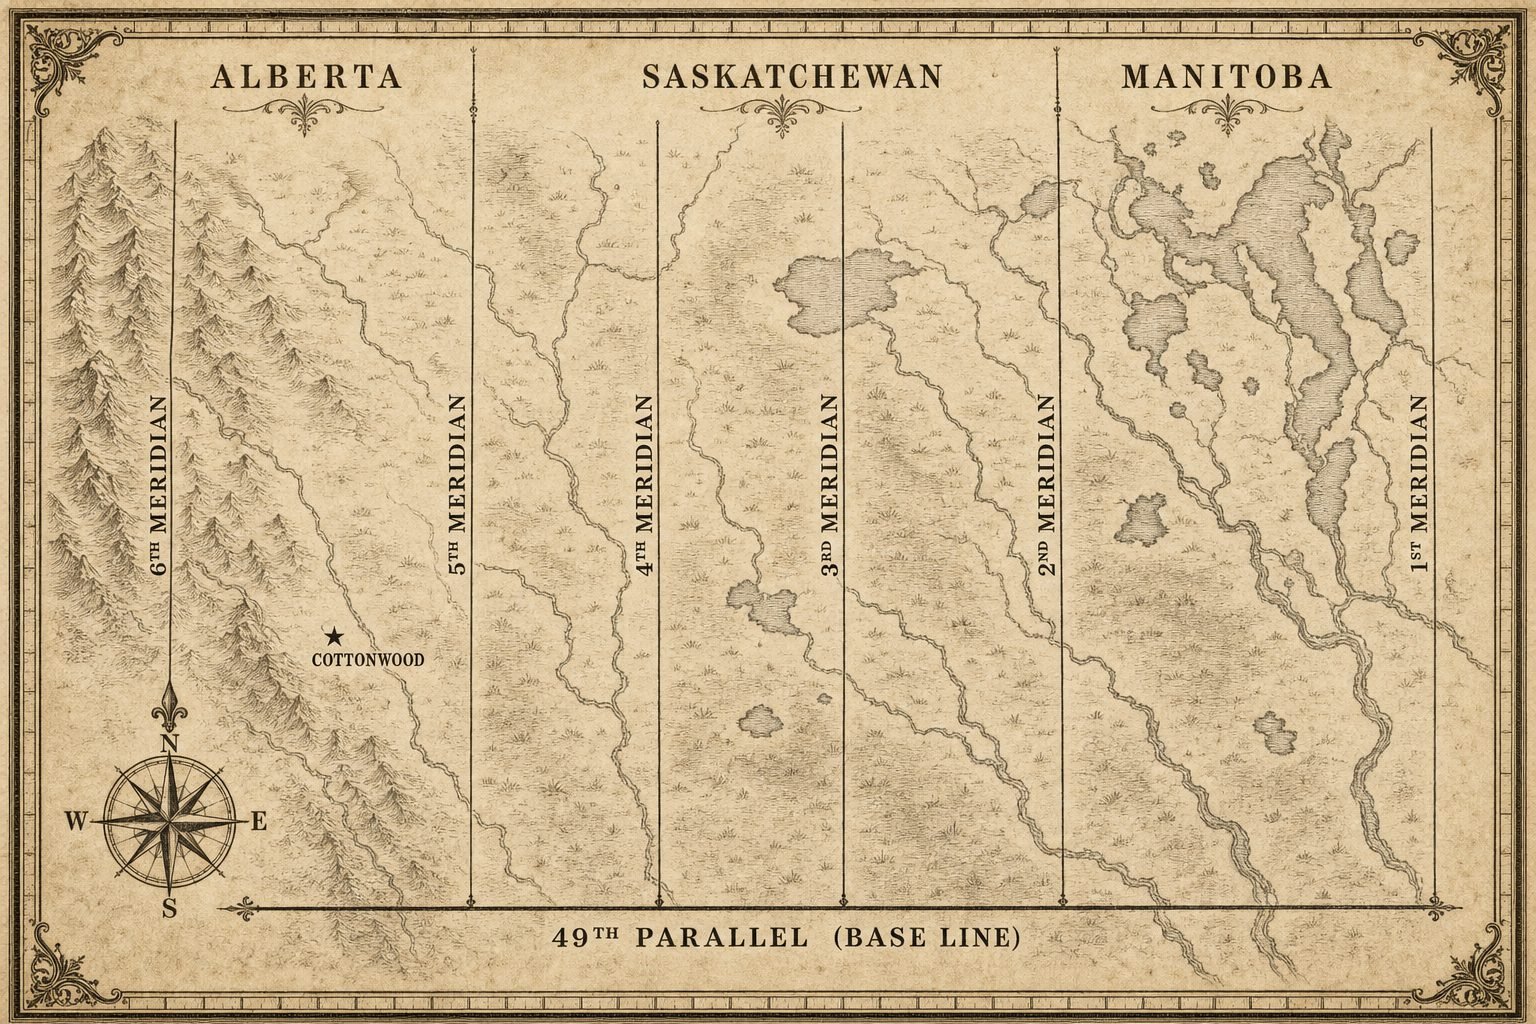
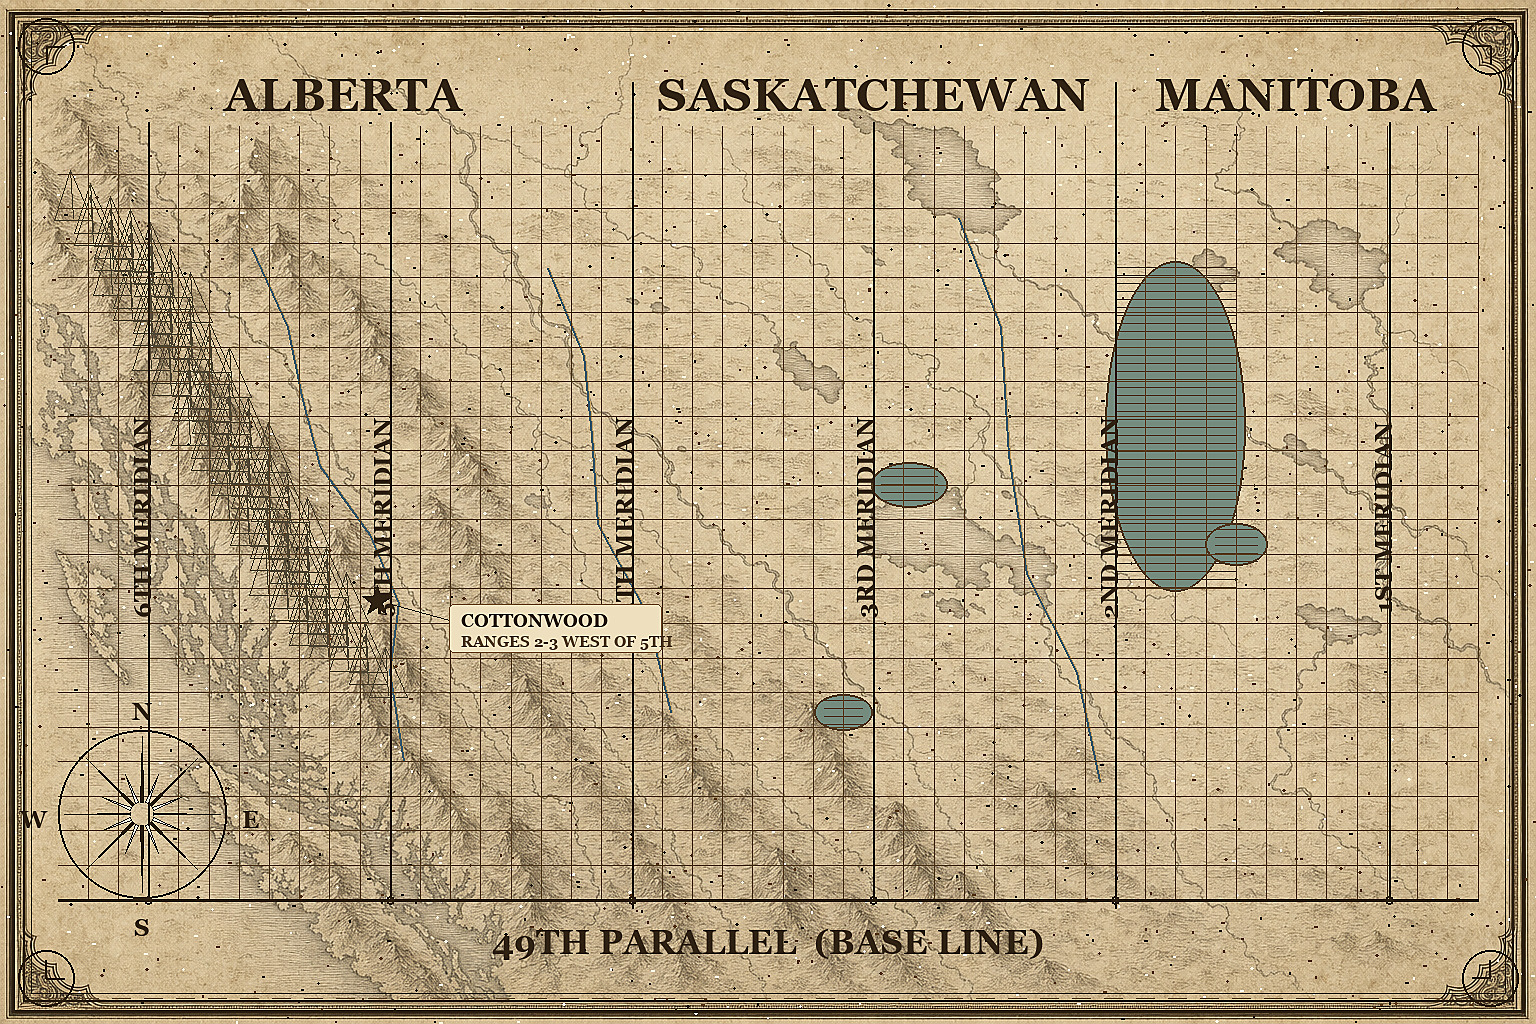
Replace meridian map with accurate DLS plate

diff --git a/land-divisions-mobile.html b/land-divisions-mobile.html
@@ -206,7 +206,7 @@
     <div class="wrap card">
       <div class="eyebrow"><span class="rn">II</span> Where counting starts</div>
       <h2>Meridians &amp; the baseline</h2>
-      <figure class="plate"><div class="frame"><img src="art/pres-meridian-map.jpg?v=3" alt="Antique meridians map" onerror="this.closest('figure').style.display='none'"></div></figure>
+      <figure class="plate"><div class="frame"><img src="art/pres-meridian-map.jpg?v=4" alt="Antique meridians map" onerror="this.closest('figure').style.display='none'"></div></figure>
       <div class="diagbox wide"><div id="meridianDiag"></div></div>
       <div class="controls" id="merBtns"></div>
       <p class="body sm">Townships count <span class="em">north</span> of the 49th parallel; ranges count

diff --git a/land-divisions.html b/land-divisions.html
@@ -240,7 +240,7 @@
     </div>
   </div>
   <figure class="plate" style="max-width:820px;margin:24px auto 0">
-    <div class="frame"><img src="art/pres-meridian-map.jpg?v=3" alt="An antique map of the six principal meridians" onerror="this.closest('figure').style.display='none'"></div>
+    <div class="frame"><img src="art/pres-meridian-map.jpg?v=4" alt="An antique map of the six principal meridians" onerror="this.closest('figure').style.display='none'"></div>
     <figcap class="figcap">An old-style map of the survey framework &mdash; six meridians counting west from Manitoba, townships counting north of the 49th-parallel base line.</figcap>
   </figure>
 </section>

diff --git a/art/generate_meridian_map.py b/art/generate_meridian_map.py
@@ -1,0 +1,240 @@
+"""Create an accurate antique-style Dominion Land Survey meridian map.
+
+This replaces the AI-generated meridian plate with a deterministic drawing:
+the old-paper style is decorative, but the meridian positions and Cottonwood
+marker are placed from longitude/latitude values.
+"""
+
+from __future__ import annotations
+
+import math
+import random
+from pathlib import Path
+
+from PIL import Image, ImageDraw, ImageEnhance, ImageFilter, ImageFont
+
+
+ROOT = Path(__file__).resolve().parent
+W, H = 1536, 1024
+MAP = {
+    "lon_w": -119.5,
+    "lon_e": -96.0,
+    "lat_s": 49.0,
+    "lat_n": 56.9,
+}
+MERIDIANS = [
+    ("6TH MERIDIAN", -118.0),
+    ("5TH MERIDIAN", -114.0),
+    ("4TH MERIDIAN", -110.0),
+    ("3RD MERIDIAN", -106.0),
+    ("2ND MERIDIAN", -102.0),
+    ("1ST MERIDIAN", -97.4579),
+]
+# Cottonwood is Township 35, Ranges 2 & 3 west of the 5th Meridian.
+# For the broad schematic, place the star in the second range block west of the
+# 5th so it reads as close to the meridian, not halfway to the 6th.
+# Same DLS constants as cottonwood-core.js: 5th meridian at 114 W, range width
+# ~= 0.142654 degrees, with a tiny calibrated longitude nudge.
+COTTONWOOD = (-114.2160, 52.02)
+
+
+def font(size: int, *, bold: bool = False) -> ImageFont.FreeTypeFont:
+    candidates = [
+        "C:/Windows/Fonts/georgiab.ttf" if bold else "C:/Windows/Fonts/georgia.ttf",
+        "C:/Windows/Fonts/timesbd.ttf" if bold else "C:/Windows/Fonts/times.ttf",
+    ]
+    for path in candidates:
+        try:
+            return ImageFont.truetype(path, size)
+        except OSError:
+            pass
+    return ImageFont.load_default()
+
+
+F_TITLE = font(46, bold=True)
+F_LABEL = font(24, bold=True)
+F_SMALL = font(18, bold=True)
+F_BASE = font(34, bold=True)
+INK = (48, 35, 20)
+INK_SOFT = (82, 61, 39)
+BLUE = (68, 93, 105)
+WATER = (116, 139, 126)
+MOUNTAIN = (83, 73, 53)
+
+
+def x_for_lon(lon: float) -> float:
+    return 58 + (lon - MAP["lon_w"]) / (MAP["lon_e"] - MAP["lon_w"]) * (W - 116)
+
+
+def y_for_lat(lat: float) -> float:
+    return 900 - (lat - MAP["lat_s"]) / (MAP["lat_n"] - MAP["lat_s"]) * 780
+
+
+def text_center(draw: ImageDraw.ImageDraw, xy: tuple[float, float], text: str, fnt, fill=INK) -> None:
+    box = draw.textbbox((0, 0), text, font=fnt)
+    draw.text((xy[0] - (box[2] - box[0]) / 2, xy[1] - (box[3] - box[1]) / 2), text, font=fnt, fill=fill)
+
+
+def draw_rotated_label(base: Image.Image, center: tuple[float, float], text: str) -> None:
+    label = Image.new("RGBA", (260, 42), (0, 0, 0, 0))
+    d = ImageDraw.Draw(label)
+    text_center(d, (130, 20), text, F_LABEL, INK)
+    label = label.rotate(90, expand=True, resample=Image.Resampling.BICUBIC)
+    base.alpha_composite(label, (int(center[0] - label.width / 2), int(center[1] - label.height / 2)))
+
+
+def draw_star(draw: ImageDraw.ImageDraw, cx: float, cy: float, r1: float = 16, r2: float = 6) -> None:
+    pts = []
+    for i in range(10):
+        ang = -math.pi / 2 + i * math.pi / 5
+        r = r1 if i % 2 == 0 else r2
+        pts.append((cx + math.cos(ang) * r, cy + math.sin(ang) * r))
+    draw.polygon(pts, fill=INK)
+
+
+def draw_squiggle(draw: ImageDraw.ImageDraw, points: list[tuple[float, float]], color, width=2) -> None:
+    draw.line(points, fill=color, width=width, joint="curve")
+    draw.line([(x + 2, y) for x, y in points], fill=(180, 155, 105), width=1)
+
+
+def make_background() -> Image.Image:
+    generated_base = ROOT.parent / "output" / "imagegen" / "meridian-base.png"
+    if generated_base.exists():
+        parchment = Image.open(generated_base).convert("RGB").resize((W, H))
+    else:
+        parchment = Image.open(ROOT / "parchment.jpg").convert("RGB").resize((W, H))
+    parchment = ImageEnhance.Color(parchment).enhance(0.72)
+    parchment = ImageEnhance.Contrast(parchment).enhance(1.08)
+    img = parchment.convert("RGBA")
+    overlay_alpha = 34 if generated_base.exists() else 88
+    overlay = Image.new("RGBA", (W, H), (236, 219, 179, overlay_alpha))
+    img.alpha_composite(overlay)
+    random.seed(35)
+    d = ImageDraw.Draw(img)
+    for _ in range(1700):
+        x, y = random.randrange(W), random.randrange(H)
+        a = random.randrange(9, 34)
+        c = random.choice([(92, 61, 31, a), (255, 244, 213, a), (46, 34, 22, a)])
+        d.ellipse((x, y, x + random.randrange(1, 4), y + random.randrange(1, 3)), fill=c)
+    return img
+
+
+def draw_border(draw: ImageDraw.ImageDraw) -> None:
+    for inset, width in [(12, 3), (23, 2), (31, 1)]:
+        draw.rectangle((inset, inset, W - inset, H - inset), outline=INK, width=width)
+    for x in range(48, W - 48, 32):
+        draw.line((x, 26, x + 18, 26), fill=(96, 72, 45), width=1)
+        draw.line((x, H - 26, x + 18, H - 26), fill=(96, 72, 45), width=1)
+    for sx in [46, W - 46]:
+        for sy in [46, H - 46]:
+            r = 28
+            draw.arc((sx - r, sy - r, sx + r, sy + r), 0, 360, fill=INK, width=2)
+            draw.line((sx, sy, sx + (18 if sx < W / 2 else -18), sy), fill=INK, width=2)
+            draw.line((sx, sy, sx, sy + (18 if sy < H / 2 else -18)), fill=INK, width=2)
+
+
+def draw_region_texture(draw: ImageDraw.ImageDraw) -> None:
+    # Rockies, intentionally decorative but west of Alberta.
+    for i in range(18):
+        bx = 70 + i * 13
+        by = 170 + i * 25
+        for j in range(5):
+            x = bx + j * 20 + (i % 3) * 7
+            y = by + j * 13
+            draw.polygon([(x, y), (x - 16, y + 50), (x + 22, y + 50)], outline=MOUNTAIN, fill=None)
+            draw.line((x, y, x + 3, y + 48), fill=MOUNTAIN, width=1)
+
+    # Simplified prairie rivers and lakes as antique texture.
+    rivers = [
+        [(-116.3, 55.6), (-116.0, 54.8), (-115.4, 54.1), (-114.9, 53.4), (-114.5, 52.7), (-114.1, 52.0), (-113.8, 51.3), (-113.6, 50.4)],
+        [(-111.4, 55.4), (-111.1, 54.5), (-110.6, 53.7), (-110.3, 52.8), (-109.9, 51.9), (-109.6, 50.9)],
+        [(-104.6, 55.9), (-104.2, 54.8), (-103.7, 53.5), (-103.2, 52.3), (-102.8, 51.3), (-102.5, 50.2)],
+    ]
+    for river in rivers:
+        pts = []
+        for idx, (lon, lat) in enumerate(river):
+            x, y = x_for_lon(lon), y_for_lat(lat)
+            pts.append((x + math.sin(idx * 1.7) * 18, y))
+        draw_squiggle(draw, pts, BLUE, width=2)
+
+    lakes = [
+        (-101.0, 53.8, 140, 330),
+        (-100.0, 52.6, 62, 42),
+        (-105.4, 53.2, 76, 45),
+        (-106.5, 50.9, 58, 36),
+    ]
+    for lon, lat, ww, hh in lakes:
+        cx, cy = x_for_lon(lon), y_for_lat(lat)
+        draw.ellipse((cx - ww / 2, cy - hh / 2, cx + ww / 2, cy + hh / 2), outline=INK_SOFT, fill=(*WATER, 70), width=2)
+        for yy in range(int(cy - hh / 2) + 6, int(cy + hh / 2), 8):
+            draw.line((cx - ww / 2 + 10, yy, cx + ww / 2 - 10, yy), fill=(82, 61, 39, 75), width=1)
+
+    # Light township/range framework.
+    for lon in [x / 2 for x in range(-238, -191)]:
+        x = x_for_lon(lon)
+        if 55 <= x <= W - 55:
+            draw.line((x, 126, x, 900), fill=(92, 68, 41, 30), width=1)
+    for lat in [49 + i * 0.35 for i in range(1, 22)]:
+        y = y_for_lat(lat)
+        draw.line((58, y, W - 58, y), fill=(92, 68, 41, 26), width=1)
+
+
+def main() -> None:
+    img = make_background()
+    draw = ImageDraw.Draw(img, "RGBA")
+    draw_border(draw)
+    draw_region_texture(draw)
+
+    # Province boundaries align with DLS meridians here.
+    x4 = x_for_lon(-110)
+    x2 = x_for_lon(-102)
+    draw.line((x4, 82, x4, 908), fill=(36, 27, 18, 145), width=2)
+    draw.line((x2, 82, x2, 908), fill=(36, 27, 18, 145), width=2)
+    text_center(draw, ((58 + x4) / 2, 84), "ALBERTA", F_TITLE)
+    text_center(draw, ((x4 + x2) / 2, 84), "SASKATCHEWAN", F_TITLE)
+    text_center(draw, ((x2 + W - 58) / 2, 84), "MANITOBA", F_TITLE)
+
+    # 49th-parallel base line.
+    baseline_y = y_for_lat(49.0)
+    draw.line((58, baseline_y, W - 58, baseline_y), fill=INK, width=3)
+    text_center(draw, (W / 2, baseline_y + 38), "49TH PARALLEL  (BASE LINE)", F_BASE)
+
+    # Principal meridians, placed by longitude.
+    for label, lon in MERIDIANS:
+        x = x_for_lon(lon)
+        draw.line((x, 122, x, baseline_y), fill=INK, width=2)
+        draw.ellipse((x - 4, baseline_y - 4, x + 4, baseline_y + 4), outline=INK, width=2)
+        draw_rotated_label(img, (x - 10, 518), label)
+
+    # Cottonwood: just west of 5th meridian.
+    cx, cy = x_for_lon(COTTONWOOD[0]), y_for_lat(COTTONWOOD[1])
+    draw_star(draw, cx, cy)
+    draw.line((cx + 14, cy + 3, cx + 76, cy + 20), fill=INK, width=1)
+    draw.rounded_rectangle((cx + 72, cy + 2, cx + 284, cy + 50), radius=5, fill=(238, 224, 190, 205), outline=(126, 91, 55), width=1)
+    draw.text((cx + 84, cy + 8), "COTTONWOOD", font=F_SMALL, fill=INK)
+    draw.text((cx + 84, cy + 31), "RANGES 2-3 WEST OF 5TH", font=font(15, bold=True), fill=INK_SOFT)
+
+    # Compass rose.
+    cc = (142, 814)
+    for i in range(16):
+        ang = -math.pi / 2 + i * math.pi / 8
+        r = 78 if i % 2 == 0 else 43
+        p1 = (cc[0] + math.cos(ang) * r, cc[1] + math.sin(ang) * r)
+        p2 = (cc[0] + math.cos(ang + 0.14) * 12, cc[1] + math.sin(ang + 0.14) * 12)
+        p3 = (cc[0] + math.cos(ang - 0.14) * 12, cc[1] + math.sin(ang - 0.14) * 12)
+        draw.polygon([p1, p2, p3], fill=INK if i % 2 == 0 else (238, 224, 190, 165), outline=INK)
+    draw.ellipse((cc[0] - 84, cc[1] - 84, cc[0] + 84, cc[1] + 84), outline=INK, width=2)
+    text_center(draw, (cc[0], cc[1] - 108), "N", F_LABEL)
+    text_center(draw, (cc[0], cc[1] + 108), "S", F_LABEL)
+    text_center(draw, (cc[0] - 108, cc[1]), "W", F_LABEL)
+    text_center(draw, (cc[0] + 108, cc[1]), "E", F_LABEL)
+
+    out = img.convert("RGB").filter(ImageFilter.UnsharpMask(radius=1.0, percent=90, threshold=3))
+    for path in [ROOT / "pres-meridian-map.jpg", ROOT / "full" / "pres-meridian-map.jpg"]:
+        path.parent.mkdir(parents=True, exist_ok=True)
+        out.save(path, quality=92, subsampling=0)
+        print(path)
+
+
+if __name__ == "__main__":
+    main()